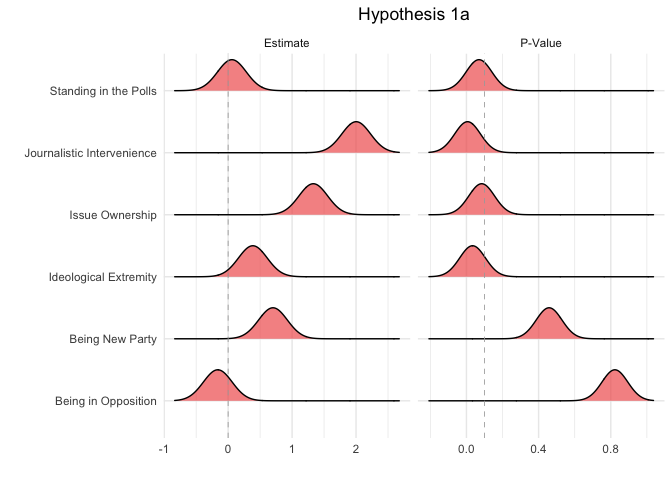
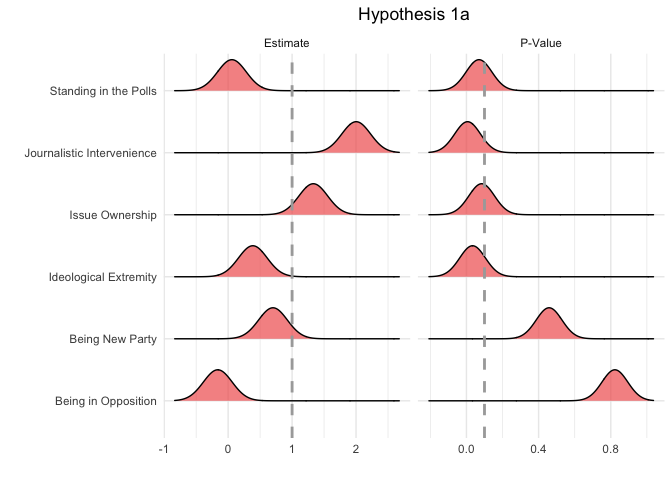
first analysis

diff --git a/src/analysis/analysis.md b/src/analysis/analysis.md
@@ -133,7 +133,7 @@ h1a <- expand(M) %>%
   mutate(id = recode(id, `estimate` = "Estimate",
                      `p.value` = "P-Value"))
 
-dummy2 <- data.frame(id = c("Estimate", "P-Value"), Z = c(0, 0.1))
+dummy2 <- data.frame(id = c("Estimate", "P-Value"), Z = c(1, 0.1))
 ggplot(h1a, aes(x = value, y = term, group = term)) +
   geom_density_ridges(scale = .5, alpha = 0.7, fill="#F1605DFF") +
   facet_grid(cols = vars(id), scales = "free") +
@@ -141,7 +141,7 @@ ggplot(h1a, aes(x = value, y = term, group = term)) +
   labs(x = "", y = "", title = "Hypothesis 1a") +
   theme(plot.title = element_text(hjust = 0.5)) + 
     geom_vline(data = dummy2, aes(xintercept = Z), 
-               linetype = "dashed", size = .3, colour = "darkgrey")
+               linetype = "dashed", size = 1, colour = "darkgrey")
 ```
 
 ![](analysis_files/figure-gfm/unnamed-chunk-4-1.png)<!-- -->
